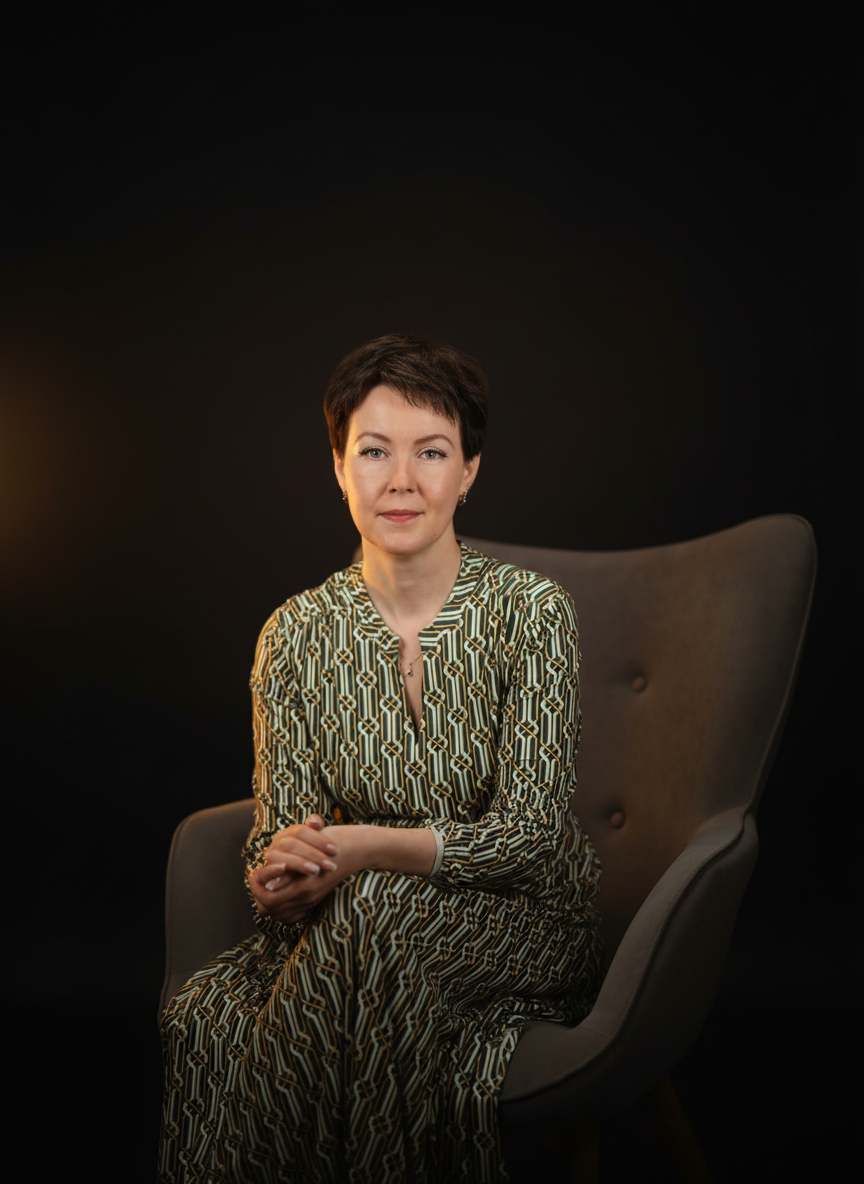
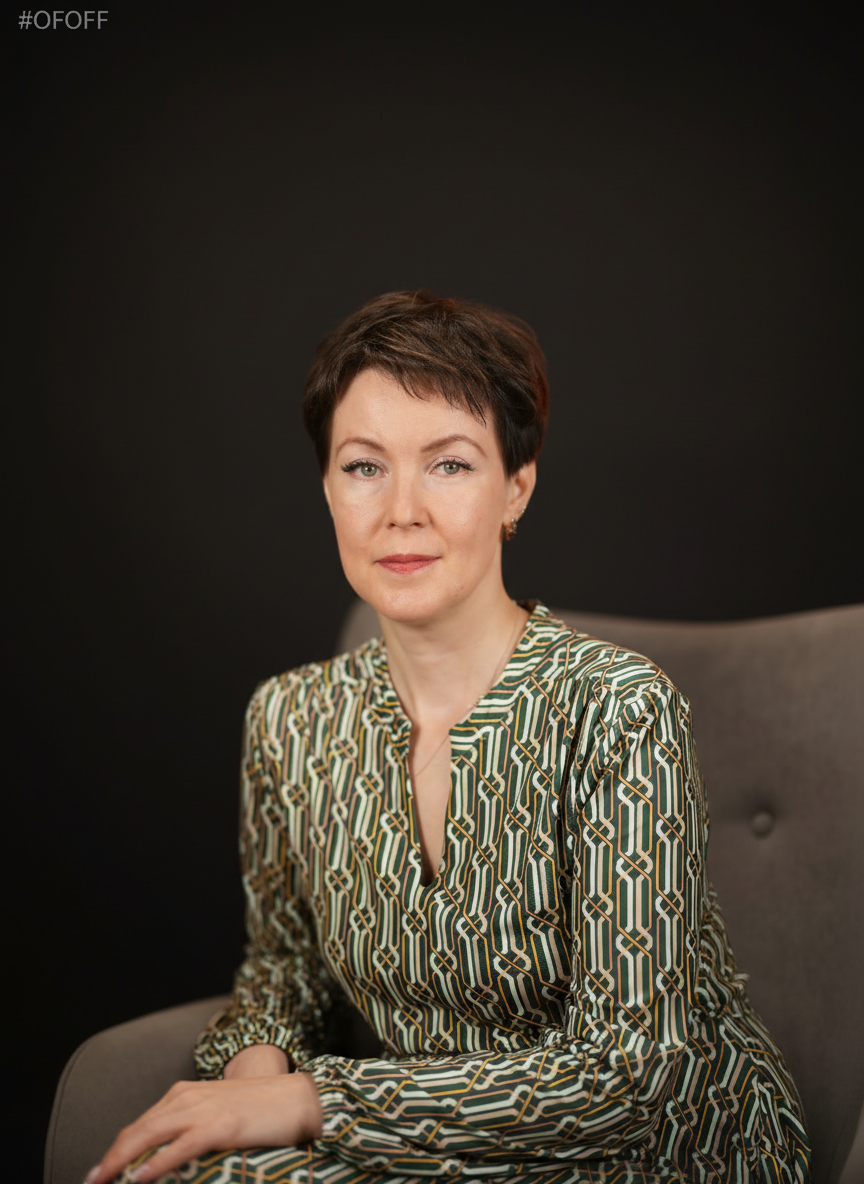
Changes

diff --git a/src/components/Hero.tsx b/src/components/Hero.tsx
@@ -28,9 +28,9 @@ const Hero = () => {
 
       {/* Photo column - on mobile first */}
       <div className="relative order-first lg:order-last">
-        <div className="relative rounded-3xl overflow-hidden opacity-0 animate-[fadeIn_1s_0.3s_forwards]">
-          <img src={heroPhoto} alt="Наталья Морозова" className="w-full aspect-[3/4] object-cover object-top block" />
-          <div className="absolute bottom-0 left-0 right-0 h-[40%] bg-gradient-to-t from-background to-transparent" />
+        <div className="relative overflow-hidden opacity-0 animate-[fadeIn_1s_0.3s_forwards]">
+          <img src={heroPhoto} alt="Наталья Морозова" className="w-full aspect-[3/4] object-cover object-[center_15%] block scale-110" />
+          <div className="absolute bottom-0 left-0 right-0 h-[30%] bg-gradient-to-t from-background to-transparent" />
           <div className="absolute bottom-8 left-8 bg-background/85 backdrop-blur-xl border border-border rounded-xl px-5 py-3.5 z-10">
             <div className="text-[11px] text-muted-foreground mb-1">Первая встреча</div>
             <div className="text-base font-bold text-primary">Бесплатно — 30 мин</div>
